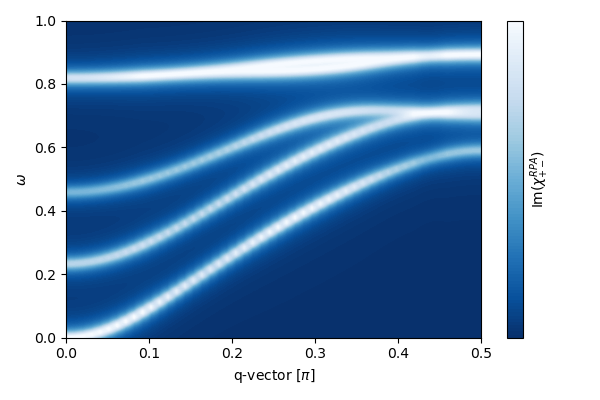
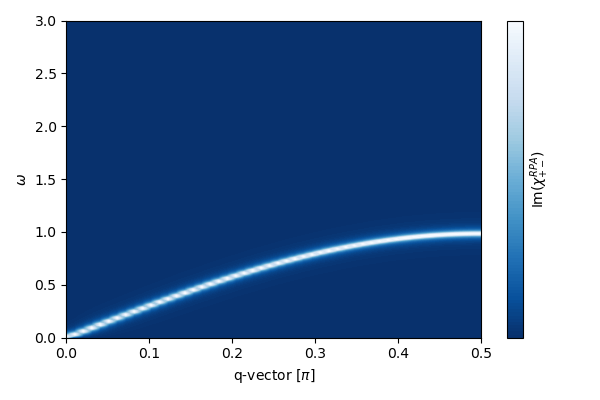
Update

diff --git a/src/pyqula/chitk/chiAB.py b/src/pyqula/chitk/chiAB.py
@@ -1,0 +1,43 @@
+import numpy as np
+import numba
+from numba import jit,prange
+
+
+
+@jit(nopython=True)
+def chiAB_jit(ws1,es1,ws2,es2,omegas,A,B,T,delta):
+    """Compute the response function"""
+    cutoff = delta/100 # cutoff for occupation difference
+    beta = 1./T # thermal broadening
+    out  = np.zeros(omegas.shape[0],dtype=np.complex128) # initialize
+    n = len(ws1) # number of wavefunctions
+    Aws2 = (A@ws2.T).T #[A@w for w in ws2] # compute all matrix elements
+    Bws1 = (B@ws1.T).T #[B@w for w in ws1] # compute all matrix elements
+    occs1 = (-np.tanh(beta*es1) + 1.)/2. # occupations
+    occs2 = (-np.tanh(beta*es2) + 1.)/2. # occupations
+    for i in range(n): # loop over wavefunctions
+        oi = occs1[i] # first occupation
+        for j in range(n): # loop over wavefunctions
+            oj = occs2[j] # second occupation
+            fac = oi - oj # occupation factor
+            if np.abs(fac)<cutoff: continue # skip contribution if too small
+            fac *= np.sum(np.conjugate(ws1[i])*Aws2[j]) # add the factor
+            fac *= np.sum(np.conjugate(ws2[j])*Bws1[i]) # add the factor
+            out = out + fac*(1./(es1[i]-es2[j] - omegas + 1j*delta))
+    return out
+
+
+
+
+@jit(nopython=True,parallel=True)
+def chiAB_matrix_jit(ws1,es1,ws2,es2,energies,Ais,Bjs,temp,delta):
+    """Compute the ChiAB matrix"""
+    ni = len(Ais) # number of operators
+    nj = len(Bjs) # number of operators
+    out = np.zeros((ni,nj,len(energies)),dtype=np.complex128) # initialize
+    for i in prange(ni): # loop
+        for j in prange(nj): # loop
+            out[i,j,:] = chiAB_jit(ws1,es1,ws2,es2,energies,Ais[i],
+                    Bjs[j],temp,delta) # compute the response
+    return out # return
+

diff --git a/src/pyqula/chi.py b/src/pyqula/chi.py
@@ -2,6 +2,8 @@ import numpy as np
 import scipy.linalg as lg
 from . import parallel
 from numba import jit
+from numba import prange
+import numba
 from . import algebra
 from .operators import Operator
 
@@ -125,8 +127,8 @@ def chiAB_q(h,energies=np.linspace(-3.0,3.0,100),q=[0.,0.,0.],nk=60,
     if projs is None:
         from . import operators
         projs = [operators.index(h,n=[i]) for i in range(len(h.geometry.r))]
-    pAs = [pi@A for pi in projs] # compute these projectors
-    pBs = [pi@B for pi in projs] # compute these projectors
+    pAs = np.array([pi@A for pi in projs]) # compute these projectors
+    pBs = np.array([pi@B for pi in projs]) # compute these projectors
     def getk(k):
         m1 = hk(k) # get Hamiltonian
         es1,ws1 = algebra.eigh(m1)
@@ -135,10 +137,13 @@ def chiAB_q(h,energies=np.linspace(-3.0,3.0,100),q=[0.,0.,0.],nk=60,
         es2,ws2 = algebra.eigh(m2)
         ws2 = np.array(ws2.T,dtype=np.complex128)
         def getAB(Ai,Bj): # compute for a single operator
-            out = 0*energies + 0j # initialize
-            return chiAB_jit(ws1,es1,ws2,es2,energies,Ai,Bj,temp,delta,out)
+            return chiAB_jit(ws1,es1,ws2,es2,energies,Ai,Bj,temp,delta)
         if mode=="matrix": # return a matrix
-            out = np.array([[getAB(pA,pB) for pA in pAs] for pB in pBs])
+            # simple implementation
+#            out = np.array([[getAB(pA,pB) for pA in pAs] for pB in pBs])
+            parallel.set_num_threads() # set the number of threads
+            out = chiAB_matrix_jit(ws1,es1,ws2,es2,energies,
+                    pAs,pBs,temp,delta)
             return np.transpose(out,(2,0,1)) # return array of matrices
         elif mode=="trace": # return the trace
             out = np.array([getAB(pi@A,pi@B) for pi in projs])
@@ -146,7 +151,7 @@ def chiAB_q(h,energies=np.linspace(-3.0,3.0,100),q=[0.,0.,0.],nk=60,
         else: raise # not implemented
     ks = h.geometry.get_kmesh(nk=nk) # get the kmesh
     # call in parallel
-    out = parallel.pcall_deep(getk,ks) # call in parallel at deepest level
+    out = [getk(k) for k in ks] # call 
     out = np.mean(out,axis=0) # sum over kpoints
 #    out = np.mean([getk(k) for k in ks],axis=0) # sum over kpoints
     return energies,out
@@ -166,26 +171,9 @@ def chiABmap(h,energies=np.linspace(-3.0,3.0,100),nq=30,
     return None
 
 
-
-@jit(nopython=True)
-def chiAB_jit(ws1,es1,ws2,es2,omegas,A,B,T,delta,out):
-    """Compute the response function"""
-    beta = 1./T # thermal broadening
-    out[:]  = 0j # initialize
-    n = len(ws1) # number of wavefunctions
-    Aws2 = (A@ws2.T).T #[A@w for w in ws2] # compute all matrix elements
-    Bws1 = (B@ws1.T).T #[B@w for w in ws1] # compute all matrix elements
-    occs1 = (-np.tanh(beta*es1) + 1.)/2. # occupations
-    occs2 = (-np.tanh(beta*es2) + 1.)/2. # occupations
-    for i in range(n): # loop over wavefunctions
-        oi = occs1[i] # first occupation
-        for j in range(n): # loop over wavefunctions
-            oj = occs2[j] # second occupation
-            fac = np.sum(np.conjugate(ws1[i])*Aws2[j]) # add the factor
-            fac *= np.sum(np.conjugate(ws2[j])*Bws1[i]) # add the factor
-            fac *= oi - oj # occupation factor
-            out = out + fac*(1./(es1[i]-es2[j] - omegas + 1j*delta))
-    return out
+# accelerated function to compute AB response
+from .chitk.chiAB import chiAB_matrix_jit
+from .chitk.chiAB import chiAB_jit
 
 
 

diff --git a/examples/1d/rpa/main.py b/examples/1d/rpa/main.py
@@ -4,25 +4,27 @@ sys.path.append(os.path.dirname(os.path.realpath(__file__))+"/../../../src")
 
 from pyqula import geometry
 import numpy as np
-g = geometry.honeycomb_zigzag_ribbon(2)
-g = geometry.lieb_ribbon(2)
-#g = geometry.bichain()
+from pyqula import parallel
+#parallel.numba_cores = 4
+
+
+#g = geometry.honeycomb_zigzag_ribbon(4)
+#g = geometry.lieb_ribbon(3)
+g = geometry.bichain()
 #g = geometry.chain()
-#g = geometry.bisquare_ribbon(2)
 h = g.get_hamiltonian()
 #h.add_sublattice_imbalance(3.)
 from pyqula import chi
-#from pyqula import parallel
-#parallel.cores = 4
-U = 3.
-nk = 20
+
+U = 4.
+nk = 50
 hmf = h.copy() ; hmf.add_antiferromagnetism(0.5)
 #hmf = h.copy() ; hmf.add_exchange([0.,0.,1.])
 #h.add_exchange([0.,0.,0.3])
 h = h.get_mean_field_hamiltonian(U=U,nk=nk,mf=hmf,filling=0.5)
 #exit()
 qs = np.linspace(0.,.5,50) # qvectors
-energies=np.linspace(.0,1.,400) # energies
+energies=np.linspace(.0,3.,400) # energies
 h.get_bands(operator="sz")
 print("Mz",h.get_vev("sz"))
 #exit()
@@ -31,9 +33,14 @@ chimap = []
 import time
 t0 = time.time()
 
+def f(q):
+    return h.get_spinchi_ladder(q=q,nk=nk,energies=energies,delta=2e-2)
 
-for q in qs: # loop over qvectors
-    es,chis = h.get_spinchi_ladder(q=q,nk=nk,energies=energies,delta=2e-2)
+#from pyqula import parallel
+#out = parallel.pcall_deep(f,qs,cores=1) # compute all
+out = [f(q) for q in qs] # compute all
+for o in out: # loop over qvectors
+    es,chis = o[0],o[1]
     cs = [np.trace(c).imag for c in chis]
     cs = np.array(cs)/np.max(cs)
     chimap.append(cs) # store 

diff --git a/src/pyqula/htk/eigenvectors.py b/src/pyqula/htk/eigenvectors.py
@@ -67,3 +67,31 @@ def get_eigenvectors(h,nk=10,kpoints=False,k=None,sparse=False,
     raise
 
 
+
+
+
+
+
+# function to diagonalize many in parallel
+from numba import jit,prange
+import numpy.linalg as nlg
+
+@jit(nopython=True,parallel=True)
+def parallel_diagonalization(hks):
+    """Diagonalize many matrices at once"""
+    n = hks.shape[1] # size of the Hamiltonian
+    nh = hks.shape[0] # number of Hamiltonians
+    es = np.zeros((nh,n),dtype=np.float64) # storage for eigenenergies
+    ws = np.zeros((nh,n,n),dtype=np.complex128) # storage for eigenenergies
+    for i in prange(nh): # loop over Hamiltonians
+        e,w = nlg.eigh(hks[i,:,:]) # diagonalize this Hamiltonian
+        es[i,:] = e[:] # store
+        ws[i,:,:] = w[:,:] # store
+    return es,ws
+
+
+
+
+
+
+

diff --git a/src/pyqula/parallel.py b/src/pyqula/parallel.py
@@ -2,6 +2,14 @@
 from __future__ import print_function
 import scipy.linalg as lg
 from . import algebra
+import numba
+
+numba_cores = None # use all cores
+
+def set_num_threads():
+    global numba_cores # global object
+    if numba_cores is not None:
+        numba.set_num_threads(numba_cores) # set these cores
 
 
 is_child = False # check if you are running a child

diff --git a/src/pyqula/paralleltk/deepcall.py b/src/pyqula/paralleltk/deepcall.py
@@ -1,8 +1,11 @@
-def pcall(fun,args):
+def pcall(fun,args,cores=None):
     """Perform a parallel call at the depest level, assuming
     that there is no other potential parallelization inside the
     function"""
-    from ..parallel import cores,pcall_serial
+    from ..parallel import pcall_serial
+    from multiprocessing import current_process
+    if cores is None: # if none given, take it from the environment variable
+        from ..parallel import cores
     if cores==1:
         return pcall_serial(fun,args)
     else:

diff --git a/src/pyqula/bandstructure.py b/src/pyqula/bandstructure.py
@@ -96,7 +96,7 @@ def get_bands_nd(h,kpath=None,operator=None,num_bands=None,
             return algebra.eigh(m) # all eigenvals and eigenfuncs
       else: 
         def diagf(m): # diagonalization routine
-            return algebra.eigvalsh(m) # all eigenvals and eigenfuncs
+            return algebra.eigvalsh(m) # all eigenvals
     else: # using arpack
       h = h.copy()
       h.turn_sparse() # sparse Hamiltonian

diff --git a/src/pyqula/specialhopping.py b/src/pyqula/specialhopping.py
@@ -119,7 +119,7 @@ def phase_C3_matrix(*args,**kwargs):
 
 def phase_C3(g,phi=0.5,t=1.0,d=1.0):
     """Create a function that computes hoppings that alternate
-    between +\phi and -\phi every 60 degrees"""
+    between +phi and -phi every 60 degrees"""
     if len(g.r)==1:
       g = g.get_supercell(2) # create a supercell
     ds = g.get_connections()